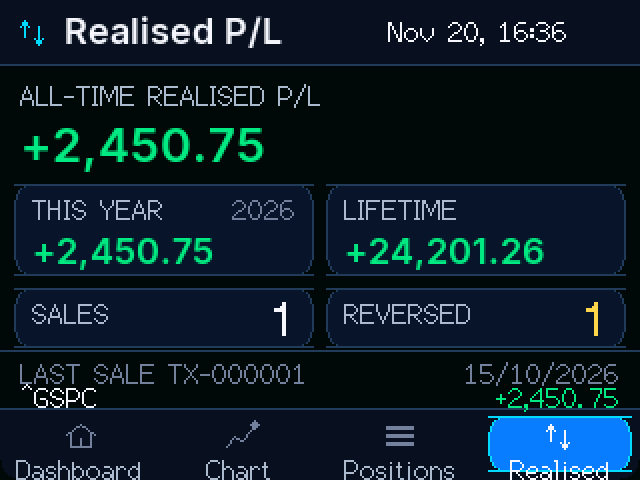
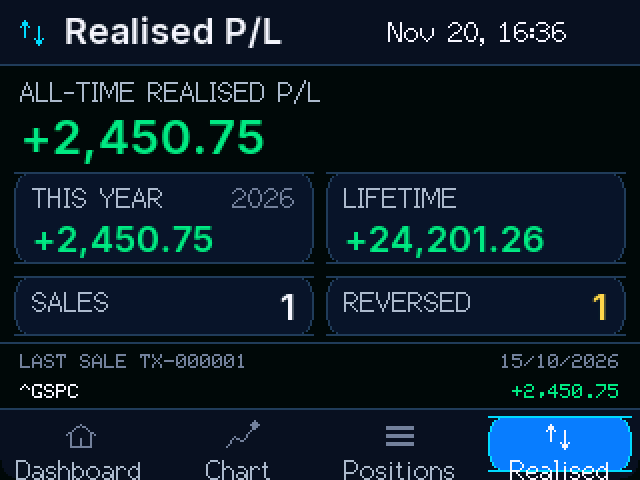
fw 1.1.9: Realised page rebalance - cards up, smaller centered counters, last-sale strip in 8x8 font
- config.h: label/big-number 38/54, THIS YEAR/LIFETIME y86, SALES/REVERSED y138,
  last-sale strip y174; even gaps, ~6 px clearance above the nav band
- SALES/REVERSED counts F4 -> FG18 (13 px ink) centered inside the 30 px cards
- LAST SALE strip F2 -> F1 (7 px ink): the two F2 lines inks touched (187/188)
  and the ^GSPC caret collided with the TX id; rows now +3/+18 (~6 px apart)
- measured F1 ink with the mock-TFT harness: 7 px tall, top datum flush
  (inkOf's F1 entry {10,3} is only used by buttons/nav, left alone)
- regenerated docs/img; bumped FW_VERSION; .gitignore tests/test_* binaries

diff --git a/src/DisplayUI.cpp b/src/DisplayUI.cpp
@@ -717,15 +717,15 @@ void drawRealDynamic() {
             Cfg::CARD, false, "--");
     txtSlot(S_RLTV, Cfg::R_C2_X + 9, Cfg::R_C2_Y + 22, F4, Cfg::MUTED,
             Cfg::CARD, false, "--");
-    txtSlot(S_RSALE, Cfg::R_C3_X + Cfg::R_C3_W - 9, Cfg::R_C3_Y + 5, F4,
+    txtSlot(S_RSALE, Cfg::R_C3_X + Cfg::R_C3_W - 9, Cfg::R_C3_Y + 4, FG18,
             Cfg::TEXT, Cfg::CARD, true, "0");
-    txtSlot(S_RREV, Cfg::R_C4_X + Cfg::R_C4_W - 9, Cfg::R_C4_Y + 5, F4,
+    txtSlot(S_RREV, Cfg::R_C4_X + Cfg::R_C4_W - 9, Cfg::R_C4_Y + 4, FG18,
             Cfg::TEXT, Cfg::CARD, true, "0");
-    txtSlot(S_RLS1, 10, Cfg::R_LAST_Y + 1, F2, Cfg::MUTED, Cfg::BG, false,
+    txtSlot(S_RLS1, 10, Cfg::R_LAST_Y + 3, F1, Cfg::MUTED, Cfg::BG, false,
             "no sales recorded");
-    txtSlot(S_RLS2, 310, Cfg::R_LAST_Y + 1, F2, Cfg::BG, Cfg::BG, true, "");
-    txtSlot(S_RLS3, 10, Cfg::R_LAST_Y + 15, F2, Cfg::BG, Cfg::BG, false, "");
-    txtSlot(S_RLS4, 310, Cfg::R_LAST_Y + 15, F2, Cfg::BG, Cfg::BG, true, "");
+    txtSlot(S_RLS2, 310, Cfg::R_LAST_Y + 3, F1, Cfg::BG, Cfg::BG, true, "");
+    txtSlot(S_RLS3, 10, Cfg::R_LAST_Y + 18, F1, Cfg::BG, Cfg::BG, false, "");
+    txtSlot(S_RLS4, 310, Cfg::R_LAST_Y + 18, F1, Cfg::BG, Cfg::BG, true, "");
     return;
   }
 
@@ -749,21 +749,21 @@ void drawRealDynamic() {
             Cfg::CARD, false, ls);
   }
 
-  txtFmt(S_RSALE, Cfg::R_C3_X + Cfg::R_C3_W - 9, Cfg::R_C3_Y + 5, F4, Cfg::TEXT,
-         Cfg::CARD, true, "%u", (unsigned)s.count);
-  txtFmt(S_RREV, Cfg::R_C4_X + Cfg::R_C4_W - 9, Cfg::R_C4_Y + 5, F4,
+  txtFmt(S_RSALE, Cfg::R_C3_X + Cfg::R_C3_W - 9, Cfg::R_C3_Y + 4, FG18,
+         Cfg::TEXT, Cfg::CARD, true, "%u", (unsigned)s.count);
+  txtFmt(S_RREV, Cfg::R_C4_X + Cfg::R_C4_W - 9, Cfg::R_C4_Y + 4, FG18,
          s.reversed ? Cfg::YELLOW : Cfg::TEXT, Cfg::CARD, true, "%u",
          (unsigned)s.reversed);
 
   if (s.hasLast) {
     char lab[40];
     snprintf(lab, sizeof(lab), "LAST SALE %s", s.lastId);
-    txtSlot(S_RLS1, 10, Cfg::R_LAST_Y + 1, F2, Cfg::MUTED, Cfg::BG, false, lab);
+    txtSlot(S_RLS1, 10, Cfg::R_LAST_Y + 3, F1, Cfg::MUTED, Cfg::BG, false, lab);
     dateText(b, sizeof(b), s.lastDate);
-    txtSlot(S_RLS2, 310, Cfg::R_LAST_Y + 1, F2, Cfg::MUTED, Cfg::BG, true, b);
-    txtFmt(S_RLS3, 10, Cfg::R_LAST_Y + 13, F2, Cfg::TEXT, Cfg::BG, false,
+    txtSlot(S_RLS2, 310, Cfg::R_LAST_Y + 3, F1, Cfg::MUTED, Cfg::BG, true, b);
+    txtFmt(S_RLS3, 10, Cfg::R_LAST_Y + 18, F1, Cfg::TEXT, Cfg::BG, false,
            "%.12s", s.lastSymbol);
-    txtFmt(S_RLS4, 310, Cfg::R_LAST_Y + 13, F2,
+    txtFmt(S_RLS4, 310, Cfg::R_LAST_Y + 18, F1,
            s.lastRealised >= 0 ? Cfg::GREEN : Cfg::RED, Cfg::BG, true, "%s",
            numBuf(2, s.lastRealised, true));
   }

diff --git a/include/config.h b/include/config.h
@@ -41,12 +41,15 @@ constexpr int16_t COL_QTY_R = 134, COL_NAV_R = 206, COL_PL_R = 272, COL_RET_R = 
 constexpr int16_t MK_Y = 36, MK_H = 30;              // price + change + badge
 
 // Realised screen (page 4, mirrors the SmallTV RealisedScreen)
-constexpr int16_t R_LBL_Y = 40, R_BIG_Y = 58;                         // all-time label / big number
-constexpr int16_t R_C1_X = 7,   R_C1_Y = 92,  R_C1_W = 150, R_C1_H = 46;   // THIS YEAR
-constexpr int16_t R_C2_X = 163, R_C2_Y = 92,  R_C2_W = 150, R_C2_H = 46;   // LIFETIME
-constexpr int16_t R_C3_X = 7,   R_C3_Y = 144, R_C3_W = 150, R_C3_H = 30;   // SALES
-constexpr int16_t R_C4_X = 163, R_C4_Y = 144, R_C4_W = 150, R_C4_H = 30;   // REVERSED
-constexpr int16_t R_LAST_Y = 178, R_LAST_H = 26;                      // last sale strip
+// Spacing tuned for the 320x240 band y32..205 (header .. nav bar): even gaps,
+// SALES/REVERSED pulled up so the last-sale strip keeps ~6 px of clearance
+// above the nav band (its ink used to touch the tab bar at y205).
+constexpr int16_t R_LBL_Y = 38, R_BIG_Y = 54;                         // all-time label / big number
+constexpr int16_t R_C1_X = 7,   R_C1_Y = 86,  R_C1_W = 150, R_C1_H = 46;   // THIS YEAR
+constexpr int16_t R_C2_X = 163, R_C2_Y = 86,  R_C2_W = 150, R_C2_H = 46;   // LIFETIME
+constexpr int16_t R_C3_X = 7,   R_C3_Y = 138, R_C3_W = 150, R_C3_H = 30;   // SALES
+constexpr int16_t R_C4_X = 163, R_C4_Y = 138, R_C4_W = 150, R_C4_H = 30;   // REVERSED
+constexpr int16_t R_LAST_Y = 174, R_LAST_H = 26;                      // last sale strip
 constexpr int16_t PBTN_Y = 69, PBTN_H = 29, PBTN_X = 7, PBTN_W = 102; // 1D/5D/1M
 constexpr int16_t PLOT_X = 38, PLOT_Y = 105, PLOT_W = 279, PLOT_H = 80;
 constexpr int16_t XLABEL_Y = 187;

diff --git a/src/core/AppTypes.h b/src/core/AppTypes.h
@@ -5,7 +5,7 @@
 #include <stddef.h>
 #include <math.h>
 
-#define FW_VERSION "1.1.8"
+#define FW_VERSION "1.1.9"
 #define SP500_SYMBOL "^GSPC"
 
 static const uint8_t  MAX_POSITIONS = 12;   // open lots; trimmed from 24 to fit the sale ledger in RAM
